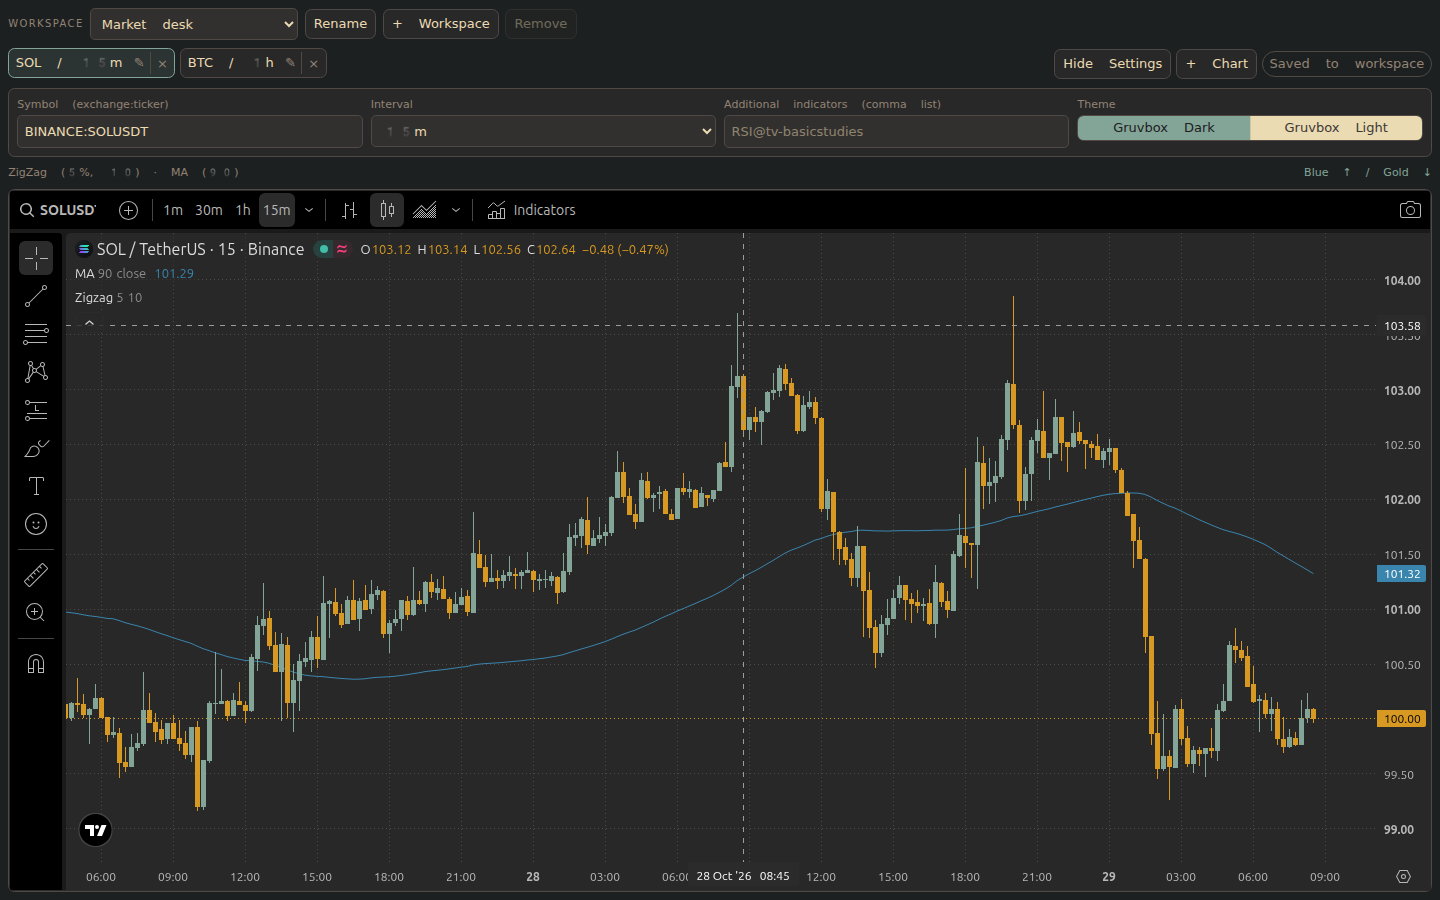
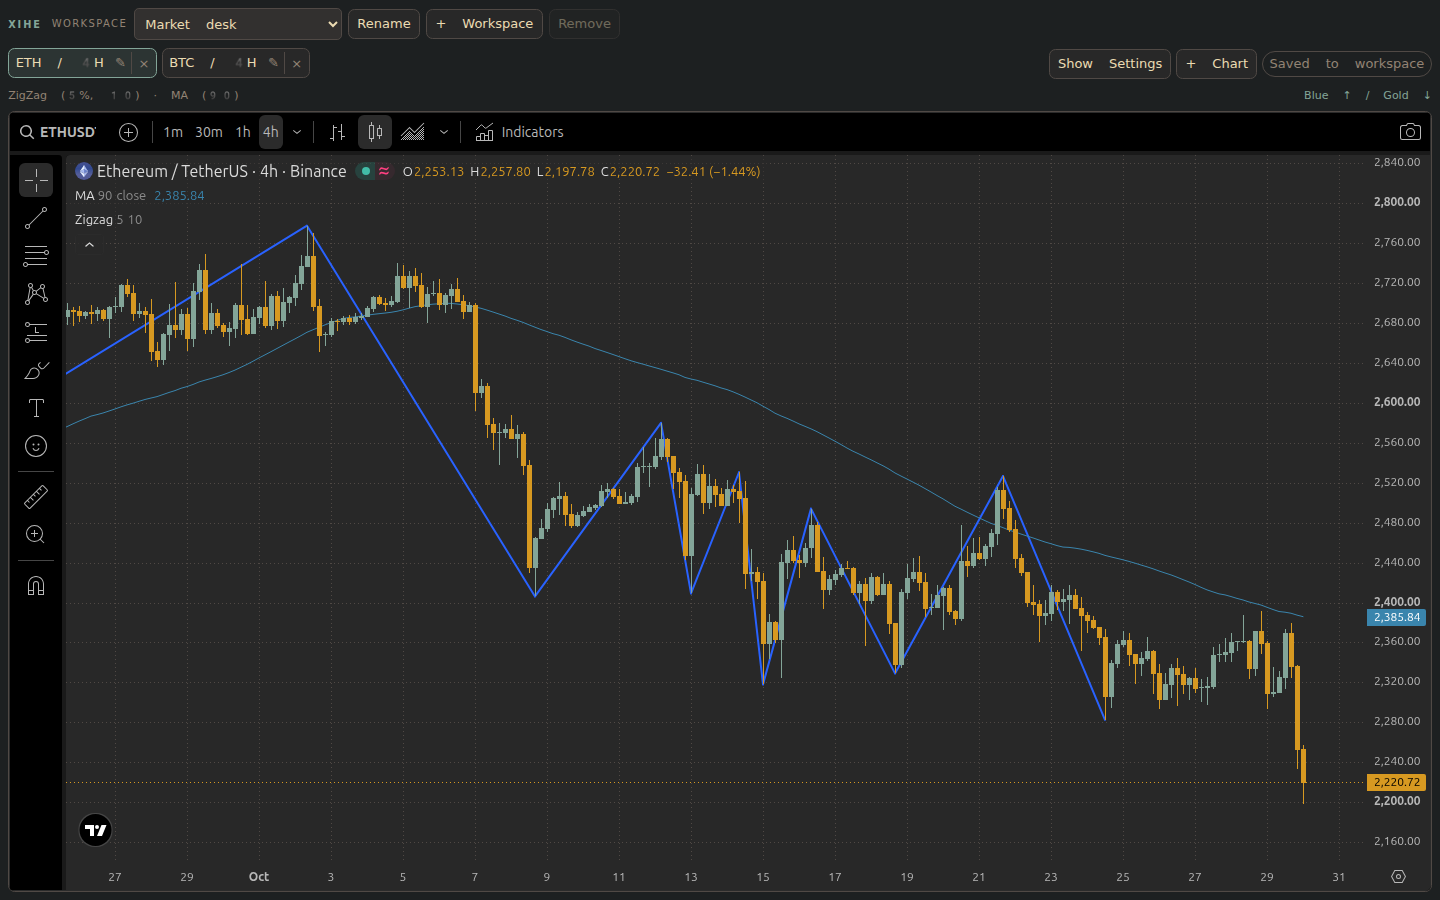
Rebrand as XiheTradingTerminal with a Weiji identity
Set new workspaces to ETHUSDT / 4H with Settings collapsed, preserve saved settings, and apply the verified ZigZag deviation input.

Add the Weiji hexagram identity with forty-nine points and one empty position. Update repository metadata, extension IDs, README screenshots, context and CI artifact naming; verify packaged assets against the current build.

diff --git a/src/webview/main.ts b/src/webview/main.ts
@@ -1,4 +1,4 @@
-import { activeTab, activeWorkspace, createTab, normalizeState, normalizeStudies, REQUIRED_STUDIES } from "../chartState";
+import { activeTab, activeWorkspace, createTab, DEFAULT_SYMBOL, normalizeState, normalizeStudies, REQUIRED_STUDIES } from "../chartState";
 import type { TradingViewState } from "../chartState";
 import { widgetOptions } from "../theme";
 import { ChartCache } from "./chartCache";
@@ -51,6 +51,12 @@ function button(label: string, className: string, action: () => void) {
   node.textContent = label;
   node.addEventListener("click", action);
   return node;
+}
+
+function newId(): string {
+  if (typeof crypto.randomUUID === "function") { return crypto.randomUUID(); }
+  // randomUUID requires a secure origin; getRandomValues also works in standalone previews.
+  return Array.from(crypto.getRandomValues(new Uint8Array(16)), value => value.toString(16).padStart(2, "0")).join("");
 }
 
 function render() {
@@ -149,8 +155,8 @@ renameDialog.addEventListener("keydown", event => {
 element("renameWorkspace").addEventListener("click", () => openRename("workspace"));
 workspaceSelect.addEventListener("change", () => { state.activeWorkspaceId = workspaceSelect.value; persist(); render(); });
 element("addWorkspace").addEventListener("click", () => {
-  const id = crypto.randomUUID();
-  const tab = createTab(crypto.randomUUID());
+  const id = newId();
+  const tab = createTab(newId());
   state.workspaces.push({ id, name: `Workspace ${state.workspaces.length + 1}`, tabs: [tab], activeTabId: tab.id });
   state.activeWorkspaceId = id;
   persist(); render();
@@ -172,12 +178,12 @@ window.addEventListener("message", event => {
 element("addTab").addEventListener("click", () => {
   const workspace = activeWorkspace(state);
   const base = activeTab(state);
-  const tab = { ...base, id: crypto.randomUUID(), name: `Chart ${workspace.tabs.length + 1}`, studies: [...base.studies] };
+  const tab = { ...base, id: newId(), name: `Chart ${workspace.tabs.length + 1}`, studies: [...base.studies] };
   workspace.tabs.push(tab); workspace.activeTabId = tab.id;
   persist(); render();
 });
 element("toggleSettings").addEventListener("click", () => { state.ui.isToolbarCollapsed = !state.ui.isToolbarCollapsed; persist(); render(); });
-symbolInput.addEventListener("change", () => { activeTab(state).symbol = symbolInput.value.trim().toUpperCase() || "BINANCE:SOLUSDT"; persist(); render(); });
+symbolInput.addEventListener("change", () => { activeTab(state).symbol = symbolInput.value.trim().toUpperCase() || DEFAULT_SYMBOL; persist(); render(); });
 intervalSelect.addEventListener("change", () => { activeTab(state).interval = intervalSelect.value; persist(); render(); });
 studiesInput.addEventListener("change", () => { activeTab(state).studies = normalizeStudies(studiesInput.value.split(",")); persist(); render(); });
 for (const node of element("themeToggle").querySelectorAll<HTMLButtonElement>("button")) {
@@ -185,7 +191,7 @@ for (const node of element("themeToggle").querySelectorAll<HTMLButtonElement>("b
 }
 // Save edited text before VS Code hides/disposes the page, without recreating a chart.
 function flushInputs() {
-  activeTab(state).symbol = symbolInput.value.trim().toUpperCase() || "BINANCE:SOLUSDT";
+  activeTab(state).symbol = symbolInput.value.trim().toUpperCase() || DEFAULT_SYMBOL;
   activeTab(state).studies = normalizeStudies(studiesInput.value.split(","));
   persist();
 }

diff --git a/src/tradingViewProvider.ts b/src/tradingViewProvider.ts
@@ -1,5 +1,5 @@
 import * as vscode from "vscode";
-import { normalizeState, STATE_KEY } from "./chartState";
+import { DEFAULT_SYMBOL, LEGACY_STATE_KEY, normalizeState, STATE_KEY } from "./chartState";
 
 export class TradingViewProvider implements vscode.WebviewViewProvider {
   private view?: vscode.WebviewView;
@@ -30,13 +30,15 @@ export class TradingViewProvider implements vscode.WebviewViewProvider {
 
   private getHtml(webview: vscode.Webview): string {
     const nonce = getNonce();
-    const state = JSON.stringify(normalizeState(this.workspaceState.get(STATE_KEY))).replace(/</g, "\\u003c");
+    const initial = normalizeState(this.workspaceState.get(STATE_KEY) ?? this.workspaceState.get(LEGACY_STATE_KEY));
+    const state = JSON.stringify(initial).replace(/</g, "\\u003c");
     const script = webview.asWebviewUri(vscode.Uri.joinPath(this.extensionUri, "out", "webview.js"));
     const styles = webview.asWebviewUri(vscode.Uri.joinPath(this.extensionUri, "out", "webview.css"));
     return `<!DOCTYPE html>
 <html lang="en">
 <head>
   <meta charset="UTF-8" />
+  <title>XiheTradingTerminal</title>
   <meta http-equiv="Content-Security-Policy" content="default-src 'none'; img-src https: data:; script-src 'nonce-${nonce}' ${webview.cspSource} https://s3.tradingview.com; style-src ${webview.cspSource}; frame-src https://*.tradingview.com;" />
   <meta name="viewport" content="width=device-width, initial-scale=1.0" />
   <link rel="stylesheet" href="${styles}" />
@@ -44,6 +46,7 @@ export class TradingViewProvider implements vscode.WebviewViewProvider {
 <body data-theme="dark">
   <div id="app">
     <div class="workspace-bar">
+      <span class="terminal-brand">XIHE</span>
       <label for="workspaceSelect">WORKSPACE</label>
       <select id="workspaceSelect" class="tv-select" aria-label="Workspace"></select>
       <button id="renameWorkspace" class="tv-btn" type="button" title="Rename workspace">Rename</button>
@@ -53,15 +56,15 @@ export class TradingViewProvider implements vscode.WebviewViewProvider {
     <div class="control-bar">
       <div class="tabs" id="tabs" aria-label="Chart tabs"></div>
       <div class="top-actions">
-        <button class="tv-btn" id="toggleSettings" aria-expanded="true" type="button">Hide Settings</button>
+        <button class="tv-btn" id="toggleSettings" aria-expanded="${!initial.ui.isToolbarCollapsed}" type="button">${initial.ui.isToolbarCollapsed ? "Show Settings" : "Hide Settings"}</button>
         <button class="tv-btn" id="addTab" type="button">+ Chart</button>
         <span class="status-pill" id="status">Workspace synced</span>
       </div>
     </div>
-    <div class="toolbar" id="toolbar" aria-label="Chart settings">
+    <div class="toolbar${initial.ui.isToolbarCollapsed ? " collapsed" : ""}" id="toolbar" aria-label="Chart settings"${initial.ui.isToolbarCollapsed ? " inert" : ""}>
       <div class="stack">
         <label for="symbolInput">Symbol (exchange:ticker)</label>
-        <input id="symbolInput" class="tv-input" placeholder="BINANCE:SOLUSDT" autocomplete="off" />
+        <input id="symbolInput" class="tv-input" placeholder="${DEFAULT_SYMBOL}" autocomplete="off" />
       </div>
       <div class="stack">
         <label for="intervalSelect">Interval</label>

diff --git a/src/chartState.ts b/src/chartState.ts
@@ -15,7 +15,10 @@ export type TradingViewState = {
   ui: { isToolbarCollapsed: boolean };
 };
 
-export const STATE_KEY = "tradingview.state";
+export const STATE_KEY = "xihe-trading-terminal.state";
+export const LEGACY_STATE_KEY = "tradingview.state";
+export const DEFAULT_SYMBOL = "BINANCE:ETHUSDT";
+export const DEFAULT_INTERVAL = "240";
 export const REQUIRED_STUDIES = ["ZigZag@tv-basicstudies", "MASimple@tv-basicstudies"];
 
 export function normalizeStudies(raw: unknown): string[] {
@@ -24,7 +27,7 @@ export function normalizeStudies(raw: unknown): string[] {
 }
 
 export function createTab(id: string, name = "Main"): ChartTab {
-  return { id, name, symbol: "BINANCE:SOLUSDT", interval: "15", studies: [...REQUIRED_STUDIES], theme: "dark", timezone: "Etc/UTC" };
+  return { id, name, symbol: DEFAULT_SYMBOL, interval: DEFAULT_INTERVAL, studies: [...REQUIRED_STUDIES], theme: "dark", timezone: "Etc/UTC" };
 }
 
 function record(value: unknown): Record<string, unknown> {
@@ -57,8 +60,8 @@ export function normalizeState(raw: unknown): TradingViewState {
       return {
         id: uniqueId(tab.id, `tab-${tabIndex + 1}`, tabIds),
         name: text(tab.name, tabIndex === 0 ? "Main" : `Chart ${tabIndex + 1}`),
-        symbol: text(tab.symbol, "BINANCE:SOLUSDT").toUpperCase(),
-        interval: typeof tab.interval === "string" || typeof tab.interval === "number" ? String(tab.interval) : "15",
+        symbol: text(tab.symbol, DEFAULT_SYMBOL).toUpperCase(),
+        interval: typeof tab.interval === "string" || typeof tab.interval === "number" ? String(tab.interval) : DEFAULT_INTERVAL,
         studies: normalizeStudies(tab.studies),
         theme: tab.theme === "light" ? "light" : "dark",
         timezone: text(tab.timezone, "Etc/UTC")
@@ -73,10 +76,11 @@ export function normalizeState(raw: unknown): TradingViewState {
     };
   });
   if (!workspaces.length) { return normalizeState(undefined); }
+  const collapsed = record(candidate.ui).isToolbarCollapsed;
   return {
     workspaces,
     activeWorkspaceId: workspaces.some(workspace => workspace.id === candidate.activeWorkspaceId) ? candidate.activeWorkspaceId as string : workspaces[0].id,
-    ui: { isToolbarCollapsed: record(candidate.ui).isToolbarCollapsed === true }
+    ui: { isToolbarCollapsed: typeof collapsed === "boolean" ? collapsed : true }
   };
 }
 

diff --git a/test/unit/webview.test.ts b/test/unit/webview.test.ts
@@ -60,6 +60,16 @@ function rename(name: string) {
 beforeEach(() => { vi.resetModules(); vi.unstubAllGlobals(); });
 
 describe("terminal Webview interactions", () => {
+  it("can create charts and workspaces when randomUUID is unavailable", async () => {
+    const getRandomValues = crypto.getRandomValues.bind(crypto);
+    vi.stubGlobal("crypto", { getRandomValues });
+    const page = await mount();
+    click("#addTab");
+    expect(activeWorkspace(page.state()).tabs).toHaveLength(2);
+    click("#addWorkspace");
+    expect(page.state().workspaces).toHaveLength(2);
+  });
+
   it("keeps the same widget and internal indicator edits when switching charts", async () => {
     const page = await mount();
     page.instances[0].customIndicators.push("custom MA settings");
@@ -89,7 +99,7 @@ describe("terminal Webview interactions", () => {
     expect(page.state().workspaces).toHaveLength(2);
     change("#symbolInput", "BINANCE:BTCUSDT");
     change("#workspaceSelect", firstId);
-    expect(activeTab(page.state()).symbol).toBe("BINANCE:SOLUSDT");
+    expect(activeTab(page.state()).symbol).toBe("BINANCE:ETHUSDT");
     expect(page.instances[0].remove).not.toHaveBeenCalled();
     expect(document.getElementById(page.instances[0].options.container_id)!.hidden).toBe(false);
   });
@@ -122,8 +132,9 @@ describe("terminal Webview interactions", () => {
     expect(document.querySelector<HTMLElement>("#intervalWarning")!.hidden).toBe(false);
     change("#intervalSelect", "60");
     expect(document.querySelector<HTMLElement>("#intervalWarning")!.hidden).toBe(true);
+    expect(document.querySelector("#toggleSettings")!.textContent).toBe("Show Settings");
     click("#toggleSettings");
-    expect(page.saved().ui.isToolbarCollapsed).toBe(true);
+    expect(page.saved().ui.isToolbarCollapsed).toBe(false);
   });
 
   it("escapes injected state and renders rename text without HTML execution", async () => {

diff --git a/test/unit/state.test.ts b/test/unit/state.test.ts
@@ -6,7 +6,9 @@ describe("workspace state", () => {
   it("creates fresh defaults with mandatory indicators", () => {
     const state = normalizeState(undefined);
     expect(state.workspaces).toHaveLength(1);
-    expect(activeTab(state)).toMatchObject({ interval: "15", theme: "dark", studies: REQUIRED_STUDIES });
+    expect(activeTab(state)).toMatchObject({ symbol: "BINANCE:ETHUSDT", interval: "240", theme: "dark", studies: REQUIRED_STUDIES });
+    expect(state.ui.isToolbarCollapsed).toBe(true);
+    expect(normalizeState({ ui: { isToolbarCollapsed: false } }).ui.isToolbarCollapsed).toBe(false);
   });
 
   it("migrates old tabs without losing independent indicators or configuration", () => {
@@ -46,7 +48,7 @@ describe("hosted widget configuration", () => {
   it.each(["dark", "light"] as const)("sets default indicator inputs and Gruvbox %s colors", theme => {
     const options = widgetOptions({ ...activeTab(normalizeState(undefined)), theme }, "test");
     expect(options.studies).toEqual(REQUIRED_STUDIES);
-    expect(options.studies_overrides).toMatchObject({ "moving average.length": 90, "zigzag.deviation": 5, "zigzag.depth": 10 });
+    expect(options.studies_overrides).toMatchObject({ "moving average.length": 90, "zigzag.deviation (%)": 5, "zigzag.depth": 10 });
     for (const property of ["upColor", "borderUpColor", "wickUpColor"]) {
       expect(options.overrides[property === "upColor" ? "mainSeriesProperties.candleStyle.upColor" : `mainSeriesProperties.candleStyle.${property}` as keyof typeof options.overrides]).toBe("#83a598");
     }

diff --git a/src/extension.ts b/src/extension.ts
@@ -3,7 +3,7 @@ import { TradingViewProvider } from "./tradingViewProvider";
 
 export function activate(context: vscode.ExtensionContext) {
   // 🔍 Proof of activation (check DevTools console)
-  console.log("✅ TradingView Sidebar extension activated");
+  console.log("✅ XiheTradingTerminal extension activated");
 
   const provider = new TradingViewProvider(
     context.extensionUri,
@@ -13,7 +13,7 @@ export function activate(context: vscode.ExtensionContext) {
   // Register the sidebar webview
   context.subscriptions.push(
     vscode.window.registerWebviewViewProvider(
-      "tradingview.sidebar", // MUST match package.json
+      "xihe-trading-terminal.sidebar", // MUST match package.json
       provider,
       {
         webviewOptions: {
@@ -25,10 +25,10 @@ export function activate(context: vscode.ExtensionContext) {
 
   // Optional: reload command (useful for debugging)
   context.subscriptions.push(
-    vscode.commands.registerCommand("tradingview.reload", () => {
-      console.log("🔄 TradingView reload command executed");
+    vscode.commands.registerCommand("xihe-trading-terminal.reload", () => {
+      console.log("🔄 XiheTradingTerminal reload command executed");
       provider.reload();
-      vscode.window.showInformationMessage("TradingView sidebar reloaded");
+      vscode.window.showInformationMessage("XiheTradingTerminal reloaded");
     })
   );
 }

diff --git a/src/webview/styles.css b/src/webview/styles.css
@@ -46,6 +46,7 @@
 
 @layer components {
   #app { @apply flex h-screen flex-col gap-2.5 bg-tv-bg p-2.5 max-[700px]:p-2; }
+  .terminal-brand { @apply mr-1 text-xs font-semibold tracking-[0.2em] text-tv-accent; }
   .workspace-bar { @apply flex flex-wrap items-center gap-2; }
   .workspace-bar label { @apply text-[10px] tracking-[0.14em] text-tv-muted; }
   .workspace-bar select { @apply min-w-32 max-w-64 flex-1; }

diff --git a/src/theme.ts b/src/theme.ts
@@ -26,7 +26,7 @@ export function widgetOptions(tab: ChartTab, containerId: string) {
     studies_overrides: {
       "volume.volume.color.0": down, "volume.volume.color.1": up,
       "moving average.length": 90,
-      "zigzag.deviation": 5, "zigzag.depth": 10
+      "zigzag.deviation (%)": 5, "zigzag.depth": 10
     }
   };
 }

diff --git a/scripts/verify_vsix.py b/scripts/verify_vsix.py
@@ -12,6 +12,7 @@ with ZipFile(package) as archive:
         "extension/package.json", "extension/out/extension.js",
         "extension/out/webview.js", "extension/readme.md",
         "extension/out/webview.css",
+        "extension/media/xihe.png", "extension/media/icon.svg",
         "extension/doc/assets/gruvbox-dark.png",
         "extension/doc/assets/gruvbox-light.png",
         "extension.vsixmanifest", "[Content_Types].xml",
@@ -21,8 +22,14 @@ with ZipFile(package) as archive:
                  "extension/.github/", "extension/doc/context/", "extension/.git/")
     assert not any(name.startswith(forbidden) or name.endswith((".vsix", ".map")) for name in names)
     packaged = json.loads(archive.read("extension/package.json"))
-    assert packaged["version"] == manifest["version"]
+    for field in ("name", "displayName", "publisher", "version", "icon"):
+        assert packaged[field] == manifest[field], field
+    assert "extension/media/tw.png" not in names
     assert packaged["main"] == "./out/extension.js"
-    for filename in ("out/extension.js", "out/webview.js", "out/webview.css"):
+    for filename in (
+        "out/extension.js", "out/webview.js", "out/webview.css",
+        "media/xihe.png", "media/icon.svg",
+        "doc/assets/gruvbox-dark.png", "doc/assets/gruvbox-light.png",
+    ):
         assert archive.read(f"extension/{filename}") == (root / filename).read_bytes(), filename
-print(f"PASS: {package.name}: entry points, version, screenshots, exact bundles, no dependencies/source/tests")
+print(f"PASS: {package.name}: identity, entry points, exact bundles/icons/screenshots, no dependencies/source/tests")

diff --git a/README.md b/README.md
@@ -1,4 +1,8 @@
-# TradingView Sidebar
+# XiheTradingTerminal
+
+<img src="media/xihe.png" alt="XiheTradingTerminal: Weiji hexagram with forty-nine points and one empty position" width="96" align="right" />
+
+Named after **Xihe (羲和)**, the solar goddess associated with time and celestial cycles. The mark is **Weiji (未济), Hexagram 64**: fire above water. Its forty-nine dots occupy a fifty-position ring, leaving one gap.
 
 A chart workspace for VS Code, with named workspaces, independent chart tabs, and a warm Gruvbox palette. Keep market charts beside your code without rebuilding your indicator setup every time you switch tabs.
 
@@ -8,6 +12,7 @@ A chart workspace for VS Code, with named workspaces, independent chart tabs, an
 
 - **Named workspaces:** group charts by market, strategy, or trading session. Create, switch, rename, and remove workspaces inside the sidebar.
 - **Independent chart tabs:** rename charts with the pencil button or a double-click. Each tab keeps its symbol, interval, theme, and additional indicators.
+- **Start with ETH / 4H:** new workspaces open `BINANCE:ETHUSDT` at four-hour resolution, with Settings collapsed by default. Existing saved configurations are retained.
 - **Indicators ready on open:** every new chart includes **ZigZag (5% deviation, depth 10)** and **Simple Moving Average (90)**. Existing saved indicators are retained when migrating older settings.
 - **Keep charts alive:** switching tabs or workspaces reuses the existing TradingView iframe, preserving indicator adjustments made inside that chart during the session.
 - **Gruvbox Dark and Light:** mist-blue up candles (`#83a598`), wheat-gold down candles (`#d79921`), and matching candle borders, wicks, and backgrounds. The palette follows the sibling `kline-trainer` project.
@@ -39,15 +44,17 @@ The packaging tool, `@vscode/vsce`, is installed as a local development dependen
 The installer is written to:
 
 ```text
-dist/tradingview-0.0.2.vsix
+dist/xihe-trading-terminal-0.0.2.vsix
 ```
+
+Extension ID: `AlexiaChen.xihe-trading-terminal`. This renamed extension has a separate identity from the original TradingView Sidebar; its saved settings are not automatically shared with that extension.
 
 In your host machine's VS Code:
 
 1. Open **Extensions**.
 2. Select **… → Install from VSIX…**.
 3. Select the generated `.vsix` file, install it, and reload VS Code if prompted.
-4. Open the **TradingView** icon in the Activity Bar.
+4. Open the **XiheTradingTerminal** icon in the Activity Bar.
 
 If you build in WSL and use VS Code on Windows, select the file from the host VS Code installation dialog and install it in the local extension environment.
 
@@ -59,7 +66,7 @@ If you build in WSL and use VS Code on Windows, select the file from the host VS
 4. Choose an interval and a Gruvbox theme. ZigZag and MA 90 are included automatically; use **Additional indicators** for supported built-in IDs, such as `RSI@tv-basicstudies`.
 5. Use **Hide Settings** to maximize the chart. At least one workspace and one chart are retained.
 
-**TradingView: Reload Sidebar** rebuilds the view from saved configuration. Its command ID is `tradingview.reload`.
+**XiheTradingTerminal: Reload Sidebar** rebuilds the view from saved configuration. Its command ID is `xihe-trading-terminal.reload`.
 
 ## TradingView capabilities and limits
 
@@ -84,7 +91,7 @@ npm run package          # build a VSIX, without running tests
 
 Press **F5 → Run Extension** to try the extension in your installed VS Code. Automated checks run offline and do not download or launch a separate VS Code installation.
 
-GitHub Actions runs on pushes, pull requests, and manual dispatch. It installs locked dependencies, runs offline checks and tests, packages the extension, verifies the VSIX contents, and uploads a **tradingview-vsix** artifact. It does not publish to the Marketplace.
+GitHub Actions runs on pushes, pull requests, and manual dispatch. It installs locked dependencies, runs offline checks and tests, packages the extension, verifies the VSIX contents, and uploads a **xihe-trading-terminal-vsix** artifact. It does not publish to the Marketplace.
 
 `node_modules/`, `out/`, `dist/`, downloaded test installations, and VSIX files are generated locally and excluded from Git. The VSIX includes the compiled extension, Webview JavaScript/CSS, media, README, changelog, license, and screenshots.
 

diff --git a/doc/context/project/progress.md b/doc/context/project/progress.md
@@ -12,10 +12,22 @@
 - GitHub Actions：锁定安装、离线检查和测试、VSIX 打包/内容校验、artifact 上传；未推送，不能声称远程 CI 已通过。
 - node_modules、out 和旧 VSIX 已取消跟踪，本地文件保留。
 
-验证：16 项回归通过；lint、类型检查、Vite 构建通过；双 watcher 启动检查通过；VSIX 实际 ZIP 版本/资源/字节和排除项校验通过；文档链接和 diff 检查通过。最终浏览器截图含真实 TradingView 图表，VS Code API 使用预览替身；420px 布局无横向溢出。
+验证：17 项回归通过；lint、类型检查、Vite 构建通过；双 watcher 启动检查通过；VSIX 实际 ZIP 版本/资源/字节和排除项校验通过；文档链接和 diff 检查通过。最终浏览器截图含真实 TradingView 图表，VS Code API 使用预览替身；420px 布局无横向溢出。
 
 曾尝试的宿主测试失败在 VS Code 下载阶段，不是插件断言失败。用户明确要求不要下载或执行宿主冒烟，已移除相关命令、依赖及 CI 步骤，不宣称这次宿主测试通过。
 
 已知边界：6h/8h 请求在真实 BINANCE:SOLUSDT widget 中回退为日线，保留明确提示；完整重载/重启会重建 widget，不能恢复图表内部未通过插件配置保存的编辑；社区 Pine 脚本不受支持。
 
-后续：按用户要求先提交本次功能，再考虑希腊女性或中国古代女性/易学相关的新项目名称，目录由用户自行 mv。
+功能改造已先提交 d606031；工程与插件现已按用户确定的新仓库名重命名，目录由用户自行 mv。
+
+## 工程命名
+
+先提交功能改造 d606031，之后按用户确定的仓库名统一为 XiheTradingTerminal（羲和），包名 xihe-trading-terminal，本地 VSIX publisher 标识 AlexiaChen。仓库地址更新为 https://github.com/AlexiaChen/XiheTradingTerminal.git；目录不自动 mv。用户取消 Marketplace 发布，因此仅保留测试与打包 artifact 的 CI，无发布 workflow、PAT 或宿主下载测试。
+
+新工作区默认改为 ETHUSDT / 4H、Settings 折叠，显式旧值保持。未济单色侧栏图标与彩色 PNG 均由本项目 SVG 生成：上离下坎、49点与一处空位。改名后的最终截图、VSIX 和第二次提交在本次交付中同步。
+
+## 2026-10-30：改名与最终默认值
+
+XiheTradingTerminal / xihe-trading-terminal，origin 已指向用户给定的新仓库。默认 ETH/4H、Settings 折叠；现有显式保存值保持。未济图标源与 PNG 已完成（49 点留一位，六爻完整）。改名和默认值修改后 17 项回归、lint、类型检查与 Vite 构建通过；用户要求再次 commit，本次提交不推送。
+
+最终深浅截图来自当前 Vite 构建，均为真实 ETH/4H 托管图表 + VS Code API 预览替身，深色 Settings 折叠，浅色 420px 宽无横向溢出。ZigZag 偏差参数修正为 `zigzag.deviation (%)`，通过临时改为 7 并观察真实图例、恢复为 5 验证生效；MA 图例为 90。VSIX 校验同时对比当前 bundle、图标及截图的实际字节。
